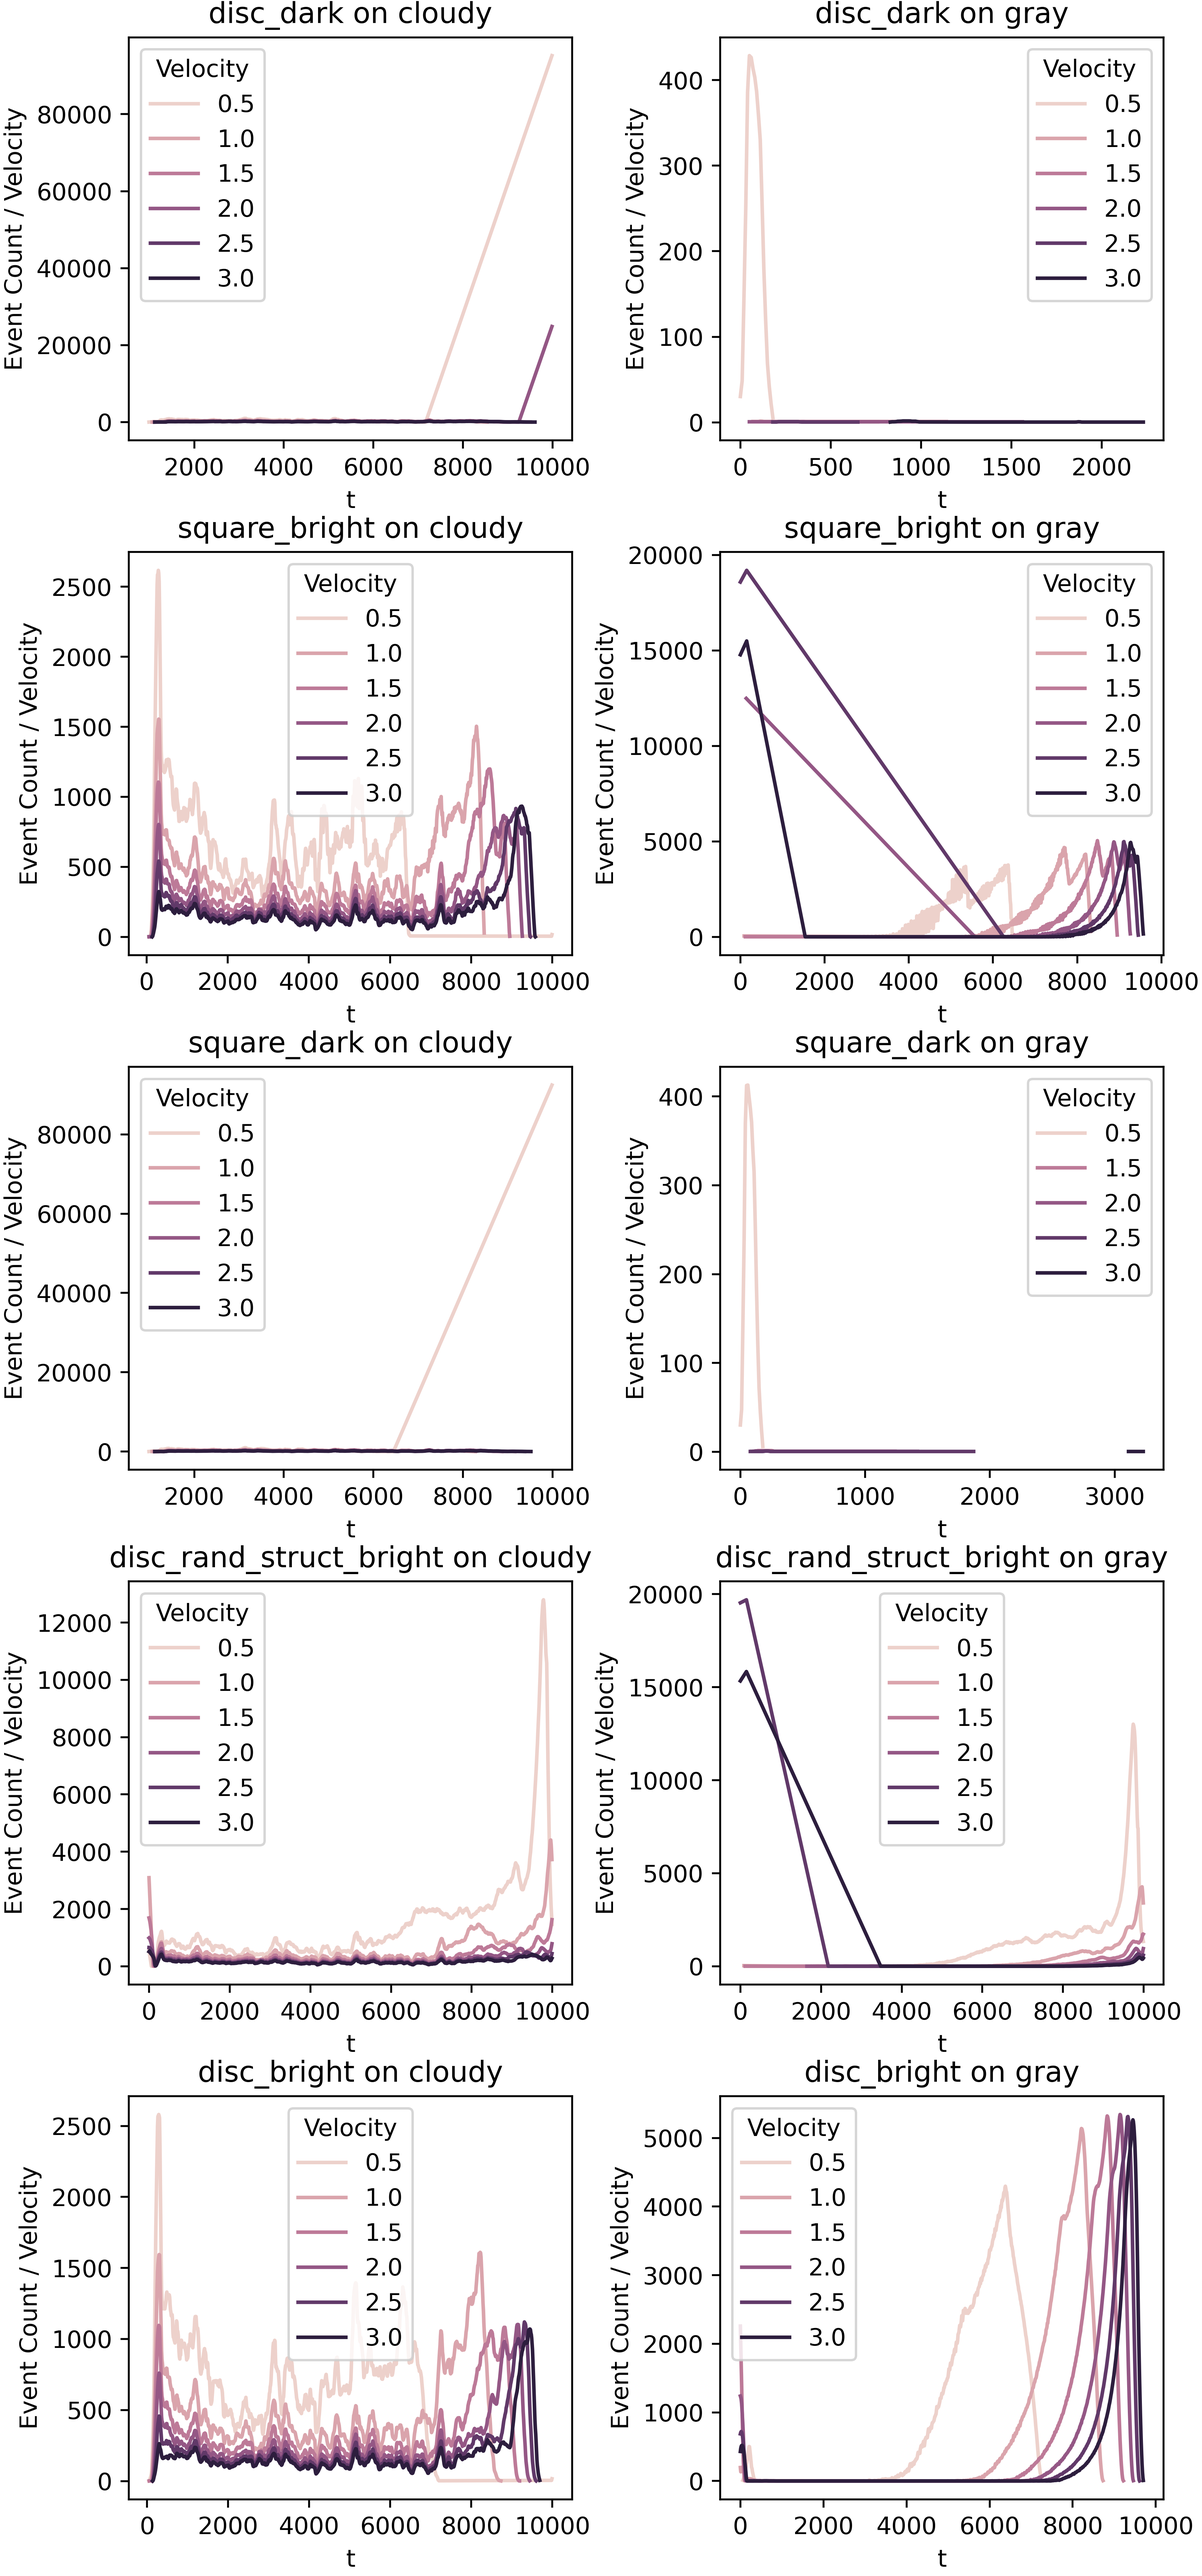
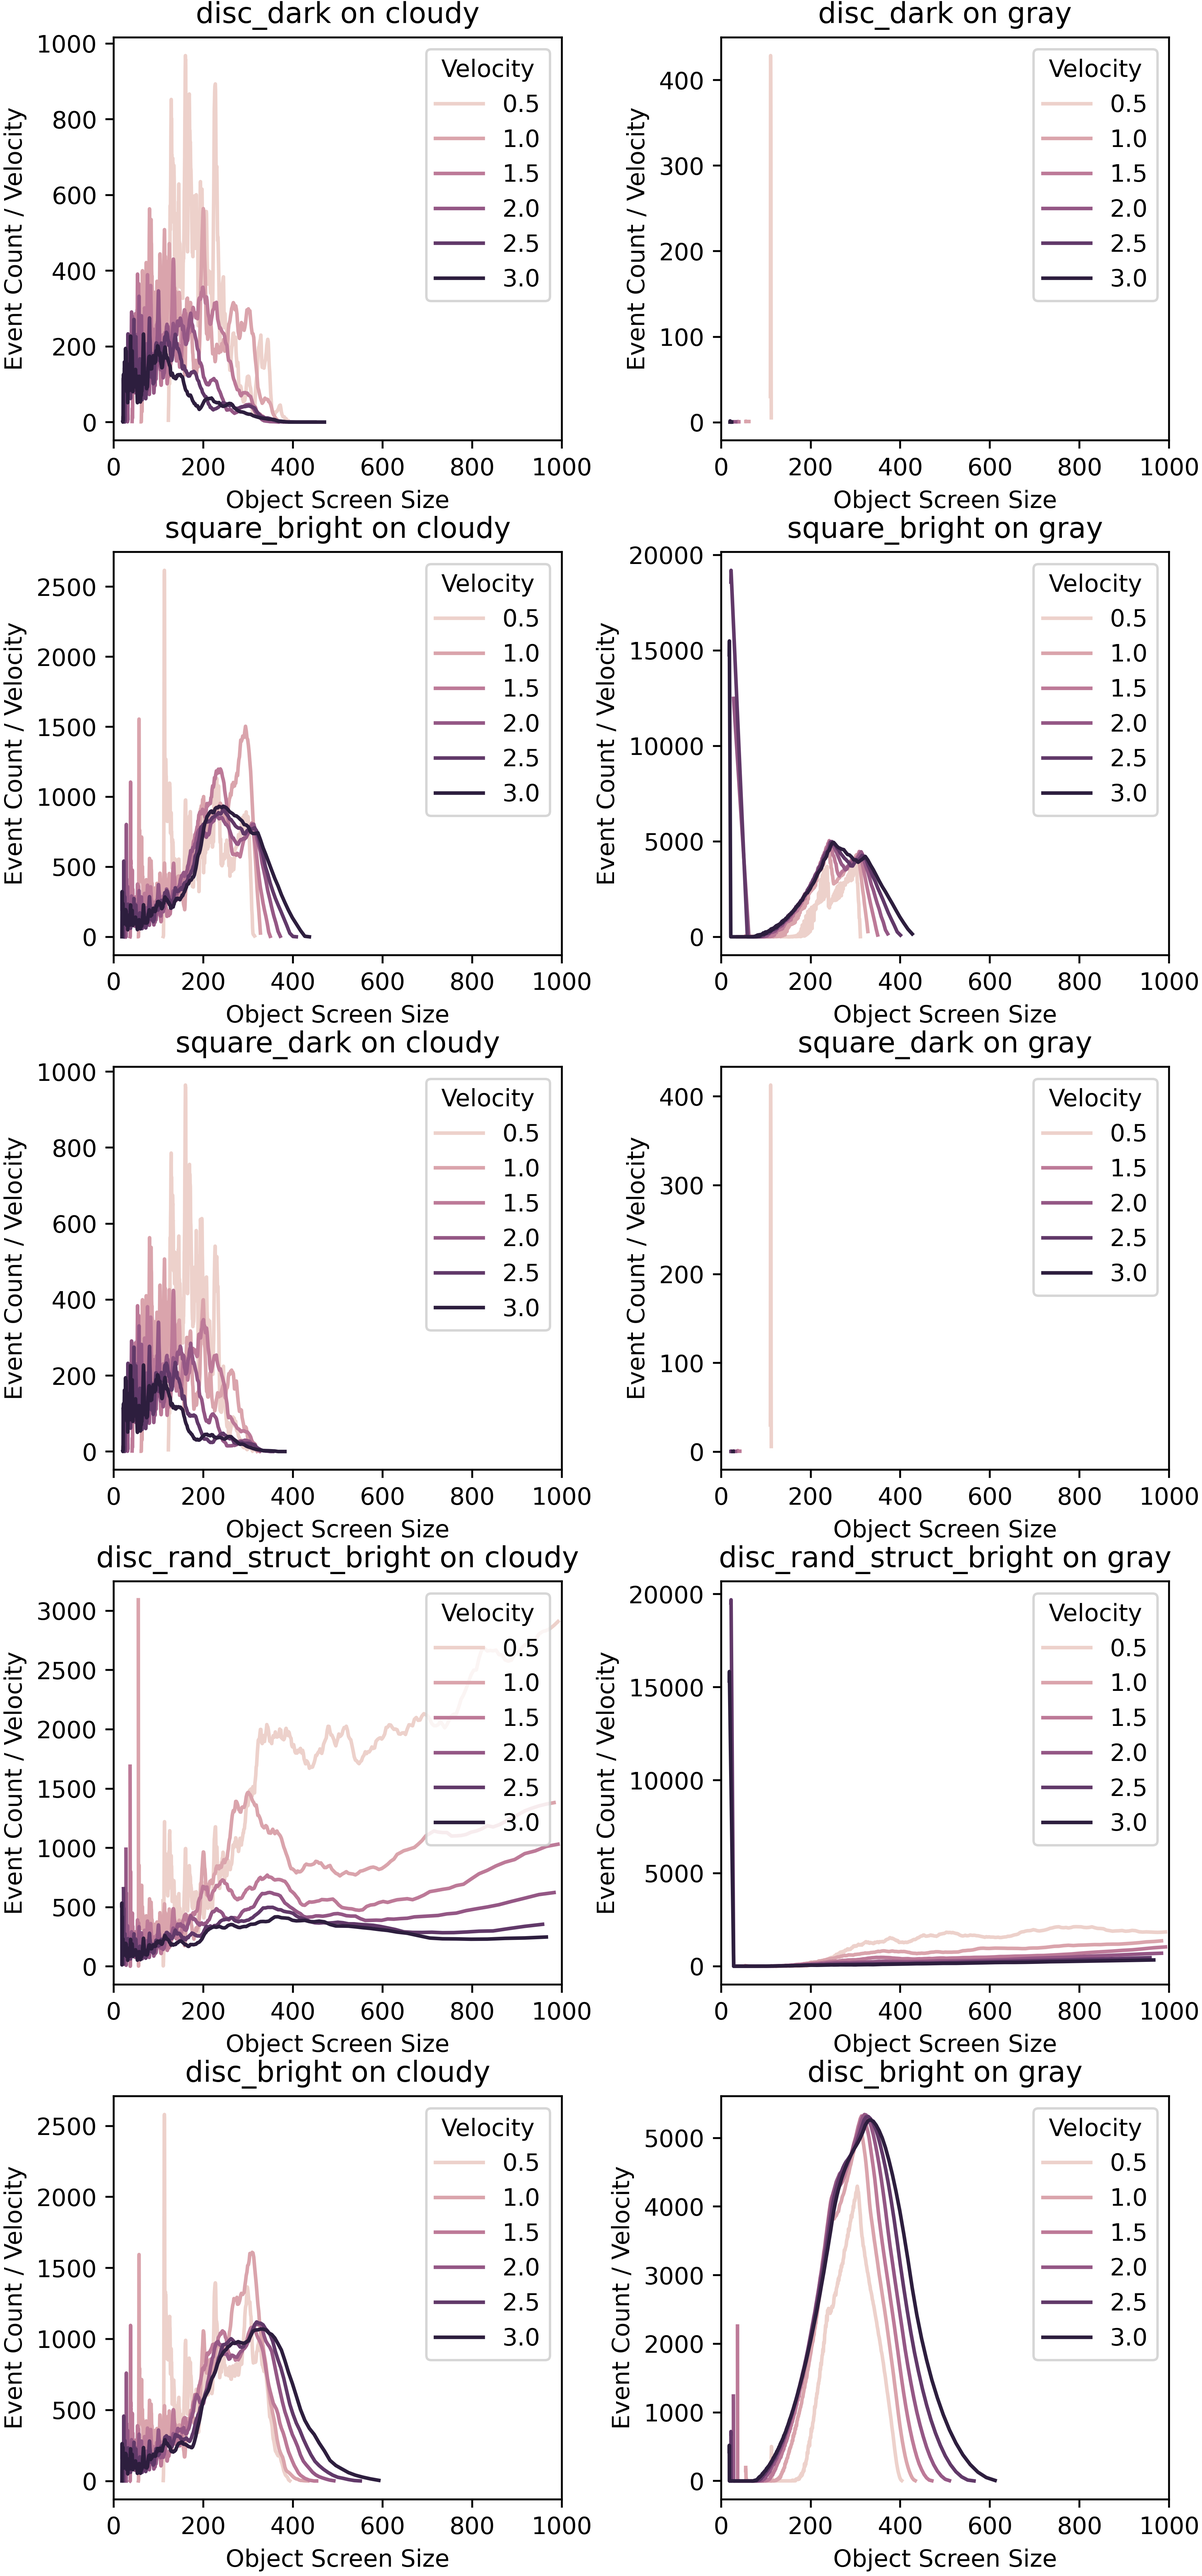
plot responses to synthetic stimuli

diff --git a/experiments/synth_looming/s_cell_spike_responses/plot_s_responses.py b/experiments/synth_looming/s_cell_spike_responses/plot_s_responses.py
@@ -9,9 +9,9 @@ import os
 
 from itertools import product
 
-#plt.style.use(
+# plt.style.use(
 #    "https://github.com/FabianSchubert/mpl_style/raw/main/custom_style.mplstyle"
-#)
+# )
 
 base_fold = os.path.join(
     os.path.dirname(__file__),
@@ -27,10 +27,10 @@ clm = {
 }
 
 OBJ_D = 1.5
-WIDTH = 304.
-VIEW_ANGLE = 45.
+WIDTH = 304.0
+VIEW_ANGLE = 45.0
 
-FOC_L = WIDTH / (2.*np.tan(VIEW_ANGLE * np.pi / 360.))
+FOC_L = WIDTH / (2.0 * np.tan(VIEW_ANGLE * np.pi / 360.0))
 
 evt_count = pd.DataFrame(columns=clm.values())
 
@@ -74,10 +74,10 @@ evt_grouped_avg = evt_count.groupby(["t", clm["vel"], clm["obj"], clm["bg"]]).me
 
 evt_count_avg = evt_grouped_avg.reset_index()
 evt_count_avg["Object Screen Size"] = (OBJ_D * FOC_L) / (
-    evt_count_avg[clm["vel"]] * (10. - evt_count_avg["t"]/1000.)
+    evt_count_avg[clm["vel"]] * (10.0 - evt_count_avg["t"] / 1000.0)
 )
 evt_count_avg["Screen Exp. Rate"] = (OBJ_D * FOC_L) / (
-    evt_count_avg[clm["vel"]] * (1.0 - evt_count_avg["t"]/1000.) ** 2.0
+    evt_count_avg[clm["vel"]] * (1.0 - evt_count_avg["t"] / 1000.0) ** 2.0
 )
 
 evt_count_avg["Event Count / Velocity"] = (
@@ -91,7 +91,11 @@ peak_count = evt_count_avg.loc[
 
 prod_obj_bg = list(product(objects, backgrounds))
 
-fig, ax = plt.subplots(int(np.ceil(len(prod_obj_bg) / 2)), 2, figsize=(7, 3 * int(np.ceil(len(prod_obj_bg) / 2))))
+fig, ax = plt.subplots(
+    int(np.ceil(len(prod_obj_bg) / 2)),
+    2,
+    figsize=(7, 3 * int(np.ceil(len(prod_obj_bg) / 2))),
+)
 
 
 for k, (obj, bg) in enumerate(prod_obj_bg):
@@ -99,13 +103,19 @@ for k, (obj, bg) in enumerate(prod_obj_bg):
 
     sns.lineplot(
         data=evt_count_avg[
-            (evt_count_avg[clm["obj"]] == obj) & (evt_count_avg[clm["bg"]] == bg)
+            (
+                (evt_count_avg[clm["obj"]] == obj)
+                & (evt_count_avg[clm["bg"]] == bg)
+                & (evt_count_avg["Object Screen Size"] < 1000.0)
+            )
         ],
-        x="t",
+        x="Object Screen Size",
         y="Event Count / Velocity",
         hue=clm["vel"],
         ax=ax[k // 2, k % 2],
     )
+
+    _ax.set_xlim([0.0, 1000.0])
 
     _ax.set_title(f"{obj} on {bg}")
 
